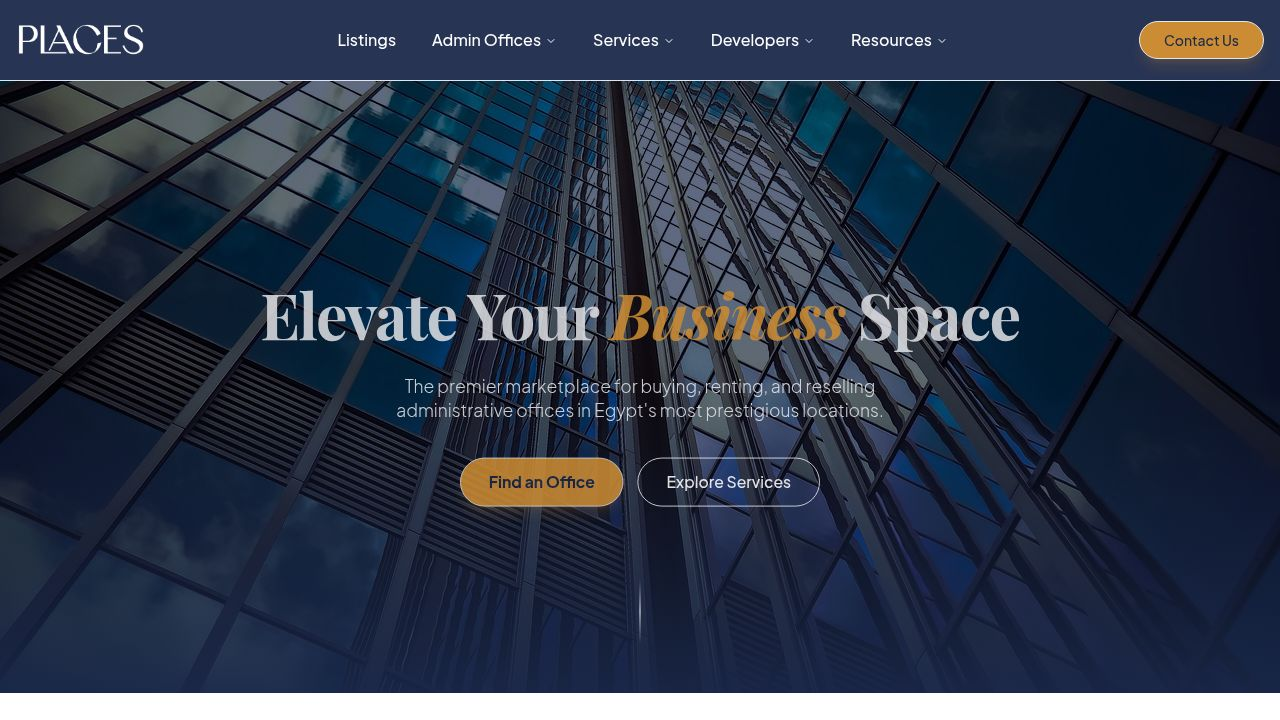
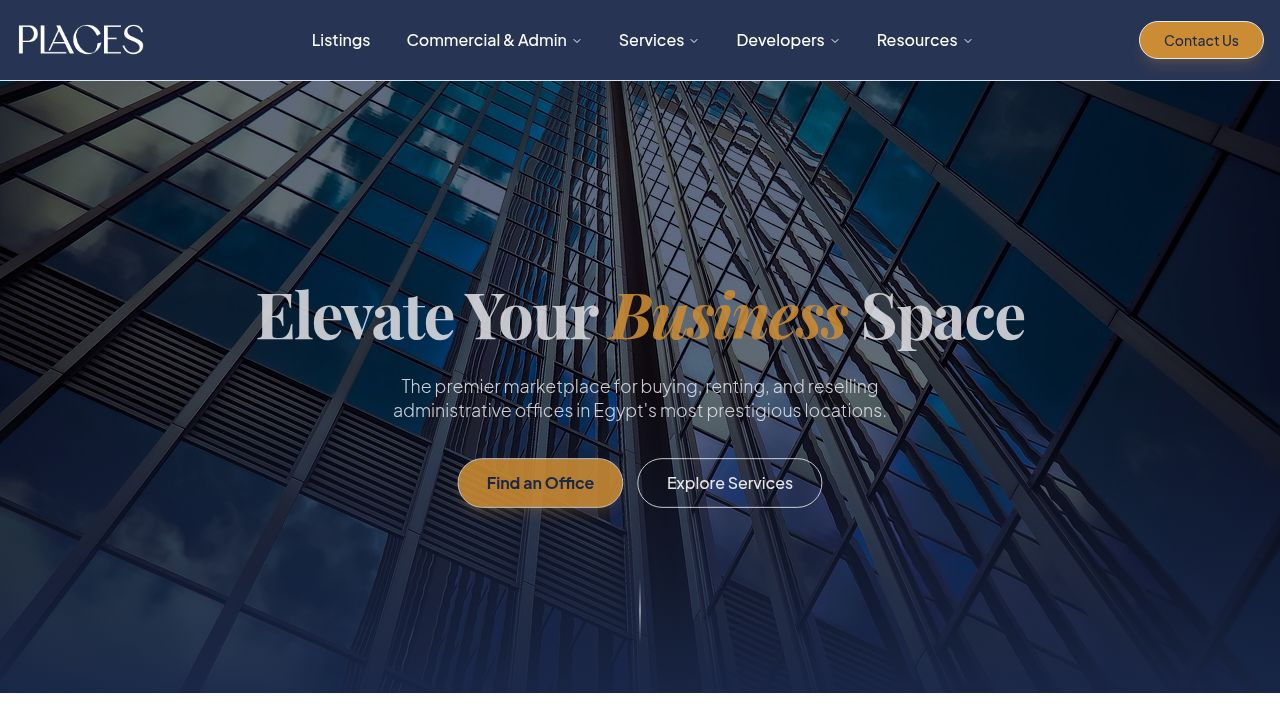
Update navigation to use a multi-column dropdown for commercial and admin offices
Implement a two-column dropdown menu for "Commercial & Admin Offices" in the navigation bar, and update routing to direct related links to the Listings page.

Replit-Commit-Author: Agent
Replit-Commit-Session-Id: 518ea956-8a08-441d-8b8e-73e2c6a8e85a
Replit-Commit-Checkpoint-Type: full_checkpoint
Replit-Commit-Event-Id: 11a22437-ff07-46b3-8e5e-493eb9729bd2
Replit-Commit-Screenshot-Url: https://storage.googleapis.com/screenshot-production-us-central1/5d22c0b2-cb0d-4316-83c3-762480585f0c/518ea956-8a08-441d-8b8e-73e2c6a8e85a/AKTy6DV
Replit-Helium-Checkpoint-Created: true

diff --git a/client/src/components/layout/Navbar.tsx b/client/src/components/layout/Navbar.tsx
@@ -42,40 +42,83 @@ export function Navbar() {
               </NavigationMenuItem>
 
               <NavigationMenuItem>
-                <NavigationMenuTrigger className="bg-transparent text-base text-white hover:text-accent hover:bg-white/10">Admin Offices</NavigationMenuTrigger>
+                <NavigationMenuTrigger className="bg-transparent text-base text-white hover:text-accent hover:bg-white/10">Commercial & Admin</NavigationMenuTrigger>
                 <NavigationMenuContent>
-                  <ul className="grid gap-3 p-6 w-[400px]">
-                    <li>
-                      <Link href="/admin-offices/business-building">
-                        <a className="block select-none space-y-1 rounded-md p-3 leading-none no-underline outline-none transition-colors hover:bg-accent hover:text-accent-foreground focus:bg-accent focus:text-accent-foreground">
-                          <div className="text-sm font-medium leading-none">Business Building</div>
-                          <p className="line-clamp-2 text-sm leading-snug text-muted-foreground">
-                            Standalone corporate towers
-                          </p>
-                        </a>
-                      </Link>
-                    </li>
-                    <li>
-                      <Link href="/admin-offices/business-park">
-                        <a className="block select-none space-y-1 rounded-md p-3 leading-none no-underline outline-none transition-colors hover:bg-accent hover:text-accent-foreground focus:bg-accent focus:text-accent-foreground">
-                          <div className="text-sm font-medium leading-none">Business Parks</div>
-                          <p className="line-clamp-2 text-sm leading-snug text-muted-foreground">
-                            Integrated corporate communities
-                          </p>
-                        </a>
-                      </Link>
-                    </li>
-                    <li>
-                      <Link href="/admin-offices/mixed-use">
-                        <a className="block select-none space-y-1 rounded-md p-3 leading-none no-underline outline-none transition-colors hover:bg-accent hover:text-accent-foreground focus:bg-accent focus:text-accent-foreground">
-                          <div className="text-sm font-medium leading-none">Mixed Use</div>
-                          <p className="line-clamp-2 text-sm leading-snug text-muted-foreground">
-                            Retail and office combinations
-                          </p>
-                        </a>
-                      </Link>
-                    </li>
-                  </ul>
+                  <div className="grid grid-cols-2 gap-3 p-6 w-[600px]">
+                    {/* Commercial Column */}
+                    <div>
+                      <h4 className="mb-3 text-sm font-medium leading-none text-accent">Commercial</h4>
+                      <ul className="grid gap-3">
+                        <li>
+                          <Link href="/commercial/mega-malls">
+                            <a className="block select-none space-y-1 rounded-md p-3 leading-none no-underline outline-none transition-colors hover:bg-accent hover:text-accent-foreground focus:bg-accent focus:text-accent-foreground">
+                              <div className="text-sm font-medium leading-none">Mega Malls</div>
+                              <p className="line-clamp-2 text-sm leading-snug text-muted-foreground">
+                                Large-scale retail destinations
+                              </p>
+                            </a>
+                          </Link>
+                        </li>
+                        <li>
+                          <Link href="/commercial/strip-malls">
+                            <a className="block select-none space-y-1 rounded-md p-3 leading-none no-underline outline-none transition-colors hover:bg-accent hover:text-accent-foreground focus:bg-accent focus:text-accent-foreground">
+                              <div className="text-sm font-medium leading-none">Strip Malls</div>
+                              <p className="line-clamp-2 text-sm leading-snug text-muted-foreground">
+                                Convenient open-air shopping centers
+                              </p>
+                            </a>
+                          </Link>
+                        </li>
+                        <li>
+                          <Link href="/commercial/drive-through">
+                            <a className="block select-none space-y-1 rounded-md p-3 leading-none no-underline outline-none transition-colors hover:bg-accent hover:text-accent-foreground focus:bg-accent focus:text-accent-foreground">
+                              <div className="text-sm font-medium leading-none">Drive Through</div>
+                              <p className="line-clamp-2 text-sm leading-snug text-muted-foreground">
+                                Quick-service commercial units
+                              </p>
+                            </a>
+                          </Link>
+                        </li>
+                      </ul>
+                    </div>
+
+                    {/* Admin Offices Column */}
+                    <div>
+                      <h4 className="mb-3 text-sm font-medium leading-none text-accent">Admin Offices</h4>
+                      <ul className="grid gap-3">
+                        <li>
+                          <Link href="/admin-offices/business-park">
+                            <a className="block select-none space-y-1 rounded-md p-3 leading-none no-underline outline-none transition-colors hover:bg-accent hover:text-accent-foreground focus:bg-accent focus:text-accent-foreground">
+                              <div className="text-sm font-medium leading-none">Business Parks</div>
+                              <p className="line-clamp-2 text-sm leading-snug text-muted-foreground">
+                                Integrated corporate communities
+                              </p>
+                            </a>
+                          </Link>
+                        </li>
+                        <li>
+                          <Link href="/admin-offices/business-building">
+                            <a className="block select-none space-y-1 rounded-md p-3 leading-none no-underline outline-none transition-colors hover:bg-accent hover:text-accent-foreground focus:bg-accent focus:text-accent-foreground">
+                              <div className="text-sm font-medium leading-none">Business Building</div>
+                              <p className="line-clamp-2 text-sm leading-snug text-muted-foreground">
+                                Standalone corporate towers
+                              </p>
+                            </a>
+                          </Link>
+                        </li>
+                        <li>
+                          <Link href="/admin-offices/mixed-use">
+                            <a className="block select-none space-y-1 rounded-md p-3 leading-none no-underline outline-none transition-colors hover:bg-accent hover:text-accent-foreground focus:bg-accent focus:text-accent-foreground">
+                              <div className="text-sm font-medium leading-none">Mixed Use</div>
+                              <p className="line-clamp-2 text-sm leading-snug text-muted-foreground">
+                                Retail and office combinations
+                              </p>
+                            </a>
+                          </Link>
+                        </li>
+                      </ul>
+                    </div>
+                  </div>
                 </NavigationMenuContent>
               </NavigationMenuItem>
 
@@ -177,12 +220,24 @@ export function Navbar() {
            <Link href="/listings"><a className="text-lg font-medium py-2 border-b border-white/10 hover:text-accent">Listings</a></Link>
            
            <div className="py-2 border-b border-white/10">
-             <div className="text-lg font-medium mb-2 text-white/80">Admin Offices</div>
-             <div className="pl-4 flex flex-col gap-2">
-               <Link href="/admin-offices/business-building"><a className="text-sm hover:text-accent">Business Building</a></Link>
-               <Link href="/admin-offices/business-park"><a className="text-sm hover:text-accent">Business Parks</a></Link>
-               <Link href="/admin-offices/mixed-use"><a className="text-sm hover:text-accent">Mixed Use</a></Link>
-               <Link href="/admin-offices"><a className="text-sm font-medium text-accent mt-1">View All &rarr;</a></Link>
+             <div className="text-lg font-medium mb-2 text-white/80">Commercial & Admin</div>
+             <div className="pl-4 flex flex-col gap-4">
+               <div>
+                 <div className="text-sm font-bold text-accent mb-2 uppercase tracking-wide">Commercial</div>
+                 <div className="pl-2 flex flex-col gap-2 border-l border-white/10">
+                    <Link href="/commercial/mega-malls"><a className="text-sm hover:text-accent pl-2">Mega Malls</a></Link>
+                    <Link href="/commercial/strip-malls"><a className="text-sm hover:text-accent pl-2">Strip Malls</a></Link>
+                    <Link href="/commercial/drive-through"><a className="text-sm hover:text-accent pl-2">Drive Through</a></Link>
+                 </div>
+               </div>
+               <div>
+                 <div className="text-sm font-bold text-accent mb-2 uppercase tracking-wide">Admin Offices</div>
+                 <div className="pl-2 flex flex-col gap-2 border-l border-white/10">
+                    <Link href="/admin-offices/business-park"><a className="text-sm hover:text-accent pl-2">Business Parks</a></Link>
+                    <Link href="/admin-offices/business-building"><a className="text-sm hover:text-accent pl-2">Business Building</a></Link>
+                    <Link href="/admin-offices/mixed-use"><a className="text-sm hover:text-accent pl-2">Mixed Use</a></Link>
+                 </div>
+               </div>
              </div>
            </div>
 

diff --git a/client/src/App.tsx b/client/src/App.tsx
@@ -14,6 +14,14 @@ function Router() {
       <Route path="/" component={Home} />
       <Route path="/listings" component={ListingsPage} />
       <Route path="/resources/glossary" component={GlossaryPage} />
+      
+      {/* Route categories to Listings Page for prototype */}
+      <Route path="/commercial/:type" component={ListingsPage} />
+      <Route path="/admin-offices/:type" component={ListingsPage} />
+      <Route path="/developers/:name" component={ListingsPage} />
+      <Route path="/services/:type" component={ListingsPage} />
+      <Route path="/resources/:type" component={ListingsPage} />
+      <Route path="/contact" component={Home} /> {/* Scroll to contact or just home for now */}
       {/* 
         For the prototype, other routes will fall back to 404 
         or we can map them to the listings page with different pre-sets 
